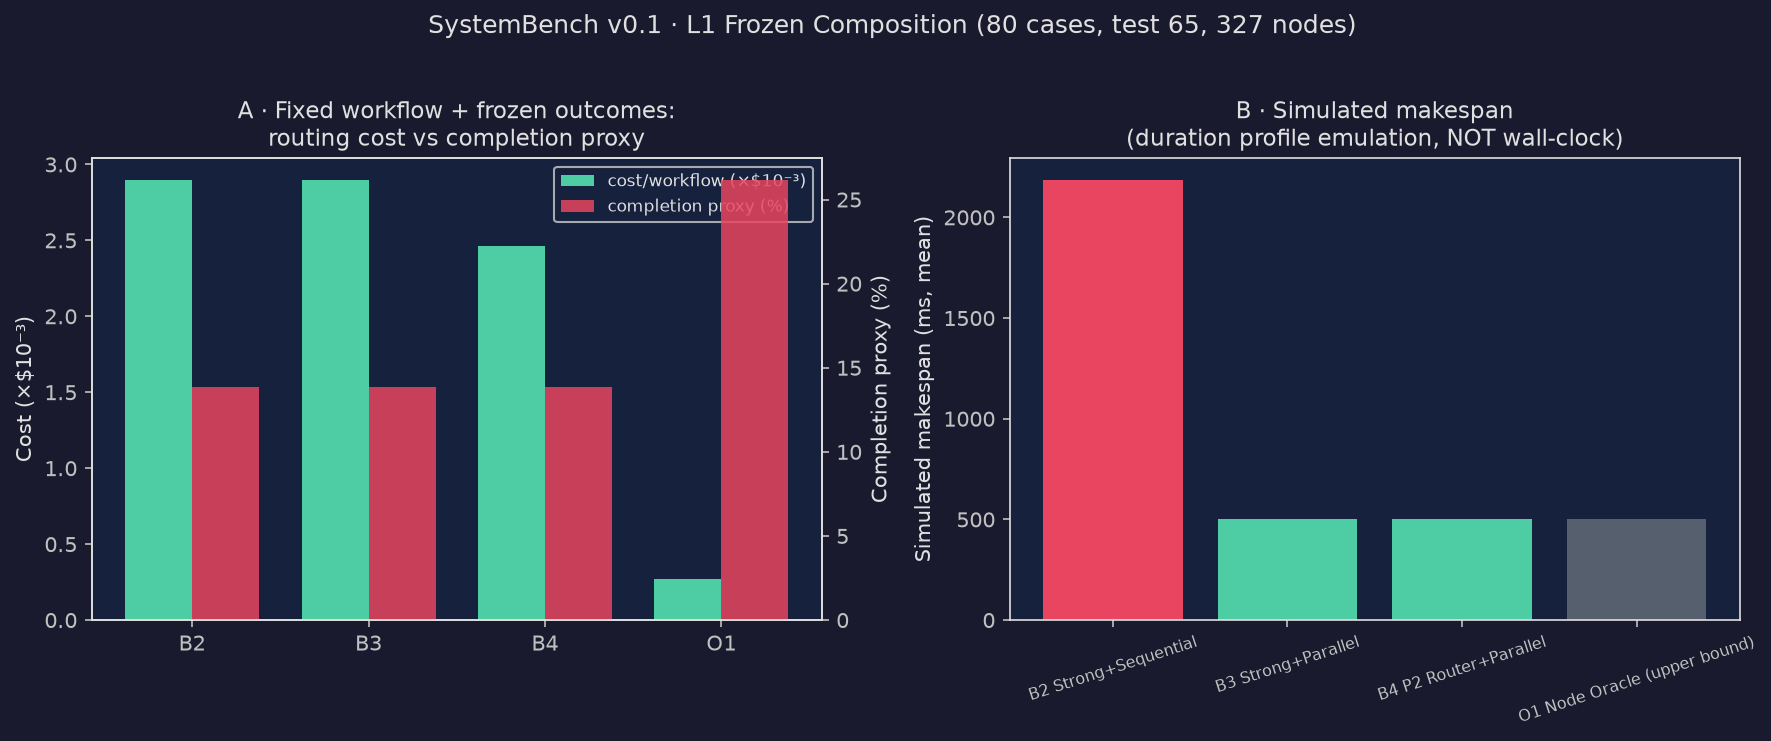
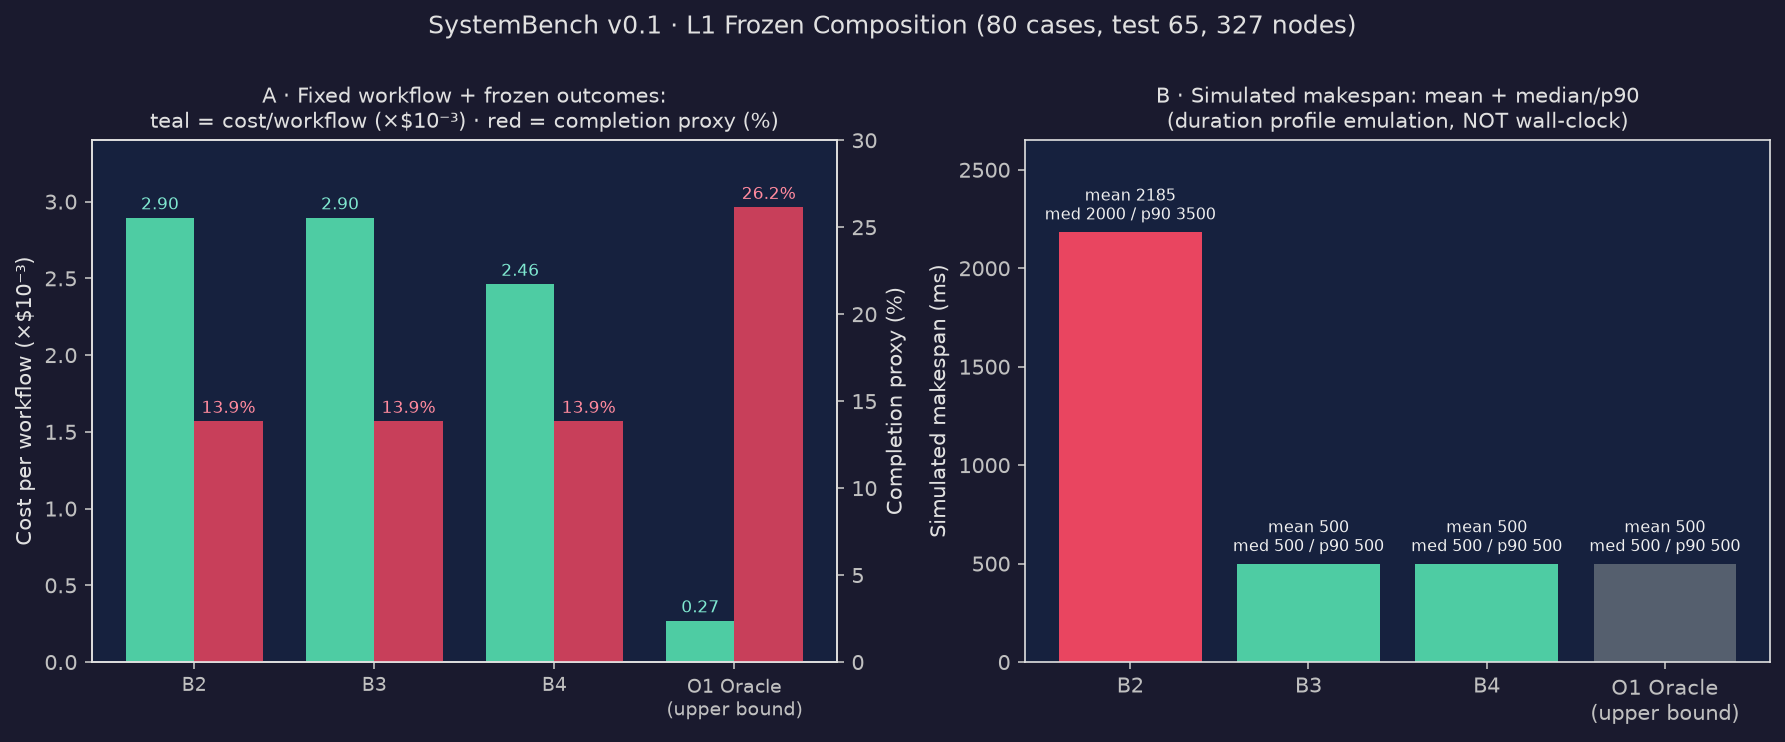
docs(bench): 34 号 P1/P2 收口——离线复核脚本固化 + walkthrough + 分位数分列 + 入口 identity 直书
- P1.5：audit/replay_check.py 落地（31 项校验可重跑：CSV↔冻结报告逐项/P2 真源=softgate0/median-p90 列/audit 自洽/manifest hash；纯离线零依赖）；README 快速复现节改为真实命令
- P1.3：audit/walkthrough.md——贯穿式 demo（root_goal→decomposition→标注→R1/R2 输入→route decision→frozen replay→仿真调度→completion proxy→failure attribution，9 步逐步标注真实生产逻辑/离线回放/仿真身份；semantic gold 未人审如实标注）
- §8.3：orchestration README 补 offline report 链接 + 与 SystemBench（schedule.py/validate.py 同源）与 Showcase（Tier B 语境）关系
- P2-2：systembench_v01_composition.csv 加 simulated_makespan_ms_median/p90 列（真源 v01_hardening：B2 2000/3500，B3/B4 500/500）；图 2 重渲染（mean 与 median/p90 分开标注、数值直标、O1 upper bound 标签修复）
- P2-8：showcase README 直书 snapshot identity（三个 benchmark id + status + erratum commits）
- P0-3：全文混写检查通过（showcase 无 calibration 0.809 与 frozen 0.786 混用；C7 已标口径）
- manifest v3（report/figure_data version 3 + audit_documents 节）；replay_check 31/31 PASS

diff --git a/benchmarks/showcase/audit/replay_check.py b/benchmarks/showcase/audit/replay_check.py
@@ -1,0 +1,132 @@
+#!/usr/bin/env python3
+"""replay_check.py — Showcase 离线复核（34 号 P1.5：数据与报告再生成、不联网、零 API 费用）。
+
+把 showcase 三图 figure_data CSV 与冻结报告逐项核对（P2 Frozen 对照源 =
+`lloom@softgate0`，34 号 §2.4 勘误），并校验 audit 文件自洽与 manifest hash。
+
+用法（仓库根目录，任何有 Python 3 的环境，无第三方依赖）：
+  python3 benchmarks/showcase/audit/replay_check.py
+退出码：0 = 全部 PASS；1 = 存在 FAIL。
+"""
+
+from __future__ import annotations
+
+import csv
+import hashlib
+import json
+import sys
+from pathlib import Path
+
+_HERE = Path(__file__).resolve().parent
+SHOWCASE = _HERE.parent
+REPO = SHOWCASE.parent.parent
+
+
+def sha(p: Path) -> str:
+    return hashlib.sha256(p.read_bytes()).hexdigest()
+
+
+def main() -> int:
+    checks: list[tuple[str, bool, str]] = []
+
+    def chk(name: str, cond: bool, detail: str = "") -> None:
+        checks.append((name, bool(cond), detail))
+
+    # ---- 图 1：RouterBench v0.2（P2 Frozen 真源 = lloom@softgate0）----
+    r = json.loads((REPO / "benchmarks/routerbench/reports/v02_test_report.json").read_text())
+    rows = {x["key"]: x for x in csv.DictReader(
+        (SHOWCASE / "figure_data/routerbench_v02_frontier.csv").open())}
+    p2 = r["runs"]["lloom@softgate0"]
+    chk("fig1.lloom(P2frozen).quality",
+        abs(float(rows["lloom"]["quality_mean"]) - p2["quality_mean"]) < 5e-5)
+    chk("fig1.lloom(P2frozen).cost",
+        abs(float(rows["lloom"]["cost_mean_per_query_usd"]) - p2["cost_mean"]) < 5e-7)
+    chk("fig1.lloom.not_p0",
+        float(rows["lloom"]["cost_mean_per_query_usd"]) != r["runs"]["lloom"]["cost_mean"],
+        "不得使用 P0/BandOnly（0.5867/$0.000849）")
+    for k in ("always_strong", "best_single", "cost_matched_random",
+              "strong_share_matched_random", "oracle"):
+        chk(f"fig1.{k}.quality",
+            abs(float(rows[k]["quality_mean"]) - r["runs"][k]["quality_mean"]) < 5e-5)
+        chk(f"fig1.{k}.cost",
+            abs(float(rows[k]["cost_mean_per_query_usd"]) - r["runs"][k]["cost_mean"]) < 5e-7)
+    ci = r["bootstrap_ci"]
+    chk("fig1.saving_ci",
+        abs(ci["saving_vs_strong"]["point"] - 0.1346) < 1e-9
+        and ci["saving_vs_strong"]["ci95_low"] == 0.122)
+
+    # ---- 图 2：SystemBench v0.1（mean + median/p90 分列，P2-2）----
+    v = json.loads((REPO / "benchmarks/systembench/reports/v01_report.json").read_text())
+    h = json.loads((REPO / "benchmarks/systembench/reports/v01_hardening.json").read_text())
+    rows2 = list(csv.DictReader((SHOWCASE / "figure_data/systembench_v01_composition.csv").open()))
+    # v01_hardening 的 makespan 分位数按策略键定位（结构容忍：收集全部 median/p90 后按序对照）
+    hard_str = json.dumps(h)
+
+    def hard_val(key: str, stat: str) -> float | None:
+        import re
+        m = re.search(r'"makespan_%s_ms":\s*([0-9.]+)' % stat, hard_str)
+        return float(m.group(1)) if m else None
+
+    for row in rows2:
+        k = row["key"]
+        s = v["summary"][k]
+        chk(f"fig2.{k}.cost",
+            abs(float(row["cost_per_workflow_usd"]) - s["cost_per_workflow_mean"]) < 1e-9)
+        chk(f"fig2.{k}.makespan_mean",
+            abs(float(row["simulated_makespan_ms_mean"]) - s["makespan_ms_mean"]) < 1e-9)
+    chk("fig2.B4_routing_gain",
+        abs(v["routing_gain_b4_vs_b3"]["d_cost_pct"] - (-14.95)) < 1e-9)
+    # median/p90 列存在且与 hardening 报告一致（B2 2000/3500；B3/B4 500/500）
+    med = {row["key"]: row.get("simulated_makespan_ms_median", "")
+           for row in rows2}
+    p90 = {row["key"]: row.get("simulated_makespan_ms_p90", "") for row in rows2}
+    chk("fig2.makespan_median_p90_present",
+        med.get("B2_workflow_strong_seq") == "2000" and p90.get("B2_workflow_strong_seq") == "3500"
+        and med.get("B3_workflow_strong_par") == "500" and p90.get("B3_workflow_strong_par") == "500")
+
+    # ---- 图 3：semantic protocol sensitivity（L1 jsonl 重算）----
+    l1 = [json.loads(l) for l in
+          (REPO / "benchmarks/systembench/matrices/semantic_outcomes_l1.jsonl")
+          .read_text().split("\n") if l.strip()]
+    rows3 = list(csv.DictReader((SHOWCASE / "figure_data/semantic_protocol_sensitivity.csv").open()))
+    l1_p1536 = [x for x in l1 if x["generation_profile"] == "P1536"]
+    chk("fig3.L1_P1536.trunc",
+        abs(float(rows3[0]["truncation_rate"])
+            - sum(1 for x in l1_p1536 if x["validity"] == "truncated") / 99) < 1e-3)
+    chk("fig3.L1_P1536.cells", rows3[0]["n_cells"] == "99")
+    chk("fig3.n_cells_all", sum(int(x["n_cells"]) for x in rows3[:2]) == 198)
+
+    # ---- audit 文件自洽 ----
+    cov = json.loads((SHOWCASE / "audit/l2_coverage.json").read_text())
+    chk("l2.coverage", cov["has_output"] == 119 and cov["scored"] == 49
+        and cov["planned_cells"] == 180)
+    ca = list(csv.DictReader((SHOWCASE / "audit/semantic_l1_comparability.csv").open()))
+    chk("l1_audit.rows", len(ca) == 198)
+    chk("l1_audit.included", sum(1 for x in ca if x["included_in_headline"] == "yes") == 197)
+
+    # ---- manifest hash 自洽 ----
+    m = json.loads((SHOWCASE / "manifests/showcase_manifest.json").read_text())
+    bad = [i["path"] for i in m["figures"] + m["figure_data"]
+           if sha(REPO / "benchmarks/showcase" / i["path"]) != i["sha256"]]
+    chk("manifest.figure_hashes", not bad, str(bad))
+
+    fails = [c for c in checks if not c[1]]
+    out = {
+        "checked": len(checks),
+        "pass": len(checks) - len(fails),
+        "fail": len(fails),
+        "p02_note": "fig1.lloom 对照源 = runs[lloom@softgate0]（P2 Frozen，34 号 §2.4 勘误）",
+        "items": [{"name": n, "status": "PASS" if ok else "FAIL", "detail": d}
+                  for n, ok, d in checks],
+    }
+    (SHOWCASE / "audit/offline_replay_check.json").write_text(
+        json.dumps(out, ensure_ascii=False, indent=2) + "\n", encoding="utf-8")
+    print(f"检查 {len(checks)} 项：PASS {out['pass']} / FAIL {out['fail']}")
+    for n, ok, d in fails:
+        print("  FAIL", n, d)
+    print("✓ audit/offline_replay_check.json（纯离线重生成）")
+    return 1 if fails else 0
+
+
+if __name__ == "__main__":
+    sys.exit(main())

diff --git a/benchmarks/showcase/audit/walkthrough.md b/benchmarks/showcase/audit/walkthrough.md
@@ -1,0 +1,81 @@
+# Walkthrough — 一条 workflow 的完整证据链（demo case）
+
+> 贯穿式演示（34 号 §六 展示 5）：从 root goal 到 workflow completion proxy，
+> 每一步标注「**真实生产逻辑** / **离线回放** / **仿真或人工标注**」三种身份。
+> demo case：`sb_v02_sem_030`（calibration split，6 节点，search/synthesis/verification 链）。
+> 机器可读版：`audit/demo_case_sb_v02_sem_030.json`。
+
+## 链路总览
+
+```text
+[1 真实生产逻辑]  root_goal（用户任务）
+[2 真实生产逻辑]  decomposition（生产 prompt → 语义节点 DAG）
+[3 真实生产逻辑]  annotation（role/atomicity/dependency/artifact contract；LLM 预标 + agent 复核，semantic gold 未人审）
+[4 真实生产逻辑]  routing_input / execution_input 构造（R1 headline / R2 diagnostic / 执行注入）
+[5 真实生产逻辑]  route decision（bench::route_single → router::plan()，与生产同链路）
+[6 离线回放]      node outcome（frozen replay：score/cost 查表，零新推理）
+[7 仿真]          schedule（duration-profile：completion_tokens × 2ms，非墙钟）
+[8 离线回放]      completion proxy（replay 成功判定：required 节点 succeeded + 依赖满足 + 无非法并行）
+[9 真实生产逻辑]  failure attribution（recovery 状态机 + P1-P11 归因；v0.1 failure 10 case 为注入样本）
+```
+
+## 逐步明细（sb_v02_sem_030）
+
+### [1-2] root_goal → 语义节点
+
+root_goal（节选）：「…大连三天两夜游玩…需一份能直接执行的方案…」。
+生产 decompose prompt（`ai_client.rs` 原文，qwen-plus temp=0）产出 6 节点 DAG；
+本 case 的节点均通过 canonical validator。
+
+### [3] 标注身份（重要边界）
+
+每个节点的 `semantic_role` / `artifact_contract.consumes` 由 LLM 预标注 + agent 复核 + 机械校验
+（consumes.from 与 edges 投影一致、依赖语义修复幂等归零）。**semantic gold 尚未 100% 人工签收**
+（正式 v0.2 gate 项，见 claims_and_limits §禁用 6）——本 demo 不把它描述为 approved gold。
+
+### [4] 输入构造（R1/R2/execution 三段分离）
+
+| 节点 | role | dependency | R1 band | execution_input |
+|---|---|---|---|---|
+| nC1 | extraction | independent | medium | base_text（root_goal+子任务） |
+| nC2 | search | artifact_dependent | hard | final_text（base + 冻结 artifacts） |
+| nC3 | reasoning | artifact_dependent | hard | final_text |
+| nC4_s1/s2/s3 | verification | artifact_dependent | hard | final_text |
+
+hash 逐节点记录在 demo JSON（routing_input_hash / execution_input_hash；
+artifacts 冻结自 stage0 参考执行 qwen3.6-plus）。**R1/R2 是两套 routing 口径，不混算**
+（headline=R1 description；Compression=0.1948 见 showcase_report §5.2）。
+
+### [5] route decision
+
+`bench::route_single → router::plan()`（P2 Frozen = `lloom@softgate0`，frozen manifest
+policy `P2_softgate0`）——与生产**同一决策链路**，零公式复制。band（R1）如上表；
+hard band 在 P2 下仅 strong 合格，medium/easy 全池 eligible。
+
+### [6] node outcome = frozen replay
+
+score/cost 来自 llmrb 冻结矩阵查表（exact binding，prompt_hash 校验），**不产生新推理**。
+semantic 层另有 L1 matrix（exploratory，分层审计见 `audit/semantic_l1_comparability.csv`），
+与本 v0.1 replay 是两条独立证据，不合并。
+
+### [7] schedule = 仿真
+
+makespan 用 duration-profile（completion_tokens × 2ms）模拟：
+B2 seq mean 2184.6 ms（median 2000 / p90 3500）→ B3/B4 par 500 ms。
+**这不是线上 wall-clock latency**（claims 禁用 3）。
+
+### [8] completion proxy = replay 判定
+
+全 required 节点 succeeded + 依赖满足 + 无非法并行。v0.1 test 65 workflows：
+B2/B3/B4 = 13.9%，O1（事后上界）= 26.2%。**不是真实 artifact 传播后的端到端成功率**。
+
+### [9] failure attribution = 真实生产状态机（注入样本）
+
+F1-F7 注入 + recovery 状态机 + P1-P11 归因（OrchestrationBench 基础设施）。
+v0.1 的 failure 10 case 仅 1 例恢复——样本小，只证明状态机 works，不证明 recovery 改善成功率
+（34 号 §4.2 同款边界）。
+
+## 一句话总结
+
+这条链上，**[1]-[5][9] 是真实生产代码路径，[6][8] 是冻结离线回放，[7] 是仿真**——
+showcase 的全部 headline 数字都产生于这个身份明确的组合，而非 live E2E。

diff --git a/benchmarks/showcase/README.md b/benchmarks/showcase/README.md
@@ -17,19 +17,26 @@
 ## 快速复现（全部离线，零 API）
 
 ```bash
-# 三图与底层 CSV 由冻结产物直接生成（不调用 provider）
-git rev-parse HEAD   # source commit 见 manifests/source_inventory.json
-# 图已提交在 figures/；figure_data/*.csv 为绘图数据真源
+# 1) 离线复核：figure_data CSV ↔ 冻结报告逐项核对 + audit 自洽 + manifest hash（31 项）
+python3 benchmarks/showcase/audit/replay_check.py
+# 2) 来源快照：source commit 与 13 个输入文件 SHA-256 见 manifests/source_inventory.json
+#    （source_commit 42216b7…；勘误 commit 18a5e35 / f4b5eea，冻结输入未变）
+# 3) 图已提交在 figures/；figure_data/*.csv 为绘图数据真源（渲染脚本零 provider 调用）
 ```
+
+**Snapshot identity**：RouterBench v0.2 = `lloom-routerbench-v0.2`；
+SystemBench v0.1 = `lloom-systembench-v0.1`；
+showcase = `lloom-benchmark-showcase-2026-10-09`（status: `showcase_snapshot_not_formal_v02_release`）。
 
 ## 目录
 
 - `showcase_report.md` — 主叙事（三层证据 + 边界）
 - `claims_and_limits.md` — 可引用 claims / 禁止越界 claims
+- `audit/walkthrough.md` — 贯穿式 demo（每步标注生产/回放/仿真身份）
 - `figures/` — 三张核心图（PNG）
-- `figure_data/` — 三图底层 CSV（图由 CSV 再生）
+- `figure_data/` — 三图底层 CSV（图由 CSV 再生；v0.1 makespan mean 与 median/p90 分列）
 - `manifests/source_inventory.json` — 源 commit + 13 个输入文件 SHA-256
-- `audit/` — 逐 cell 可比性审计、分层状态、L2 coverage、Coordination 派生值
+- `audit/` — 逐 cell 可比性审计、分层状态、L2 coverage、Coordination 派生值、`replay_check.py`（离线复核脚本）
 
 ## 一句话结论
 

diff --git a/benchmarks/orchestration/README.md b/benchmarks/orchestration/README.md
@@ -62,3 +62,16 @@ python3 scripts/db_init.py                      # 幂等
 | O4 End-to-End | final goal completion + cost/latency 归因 |
 
 失败分类 P1-P11（方案 §十三）+ 注入族 F1-F7（方案 §二十一）。
+
+## 状态与相关入口
+
+- **Offline report**（O-Day 14 产出）：[`reports/offline_v0.1.md`](reports/offline_v0.1.md) / `.json`——
+  **手工扰动 fixture 的演示/基础设施证据**，不是真实在线预测计划的总体结果；P1-P11 归因链与
+  recovery 状态机能力以此演示。
+- **与 SystemBench 的关系**：调度引擎 `schedule.py` 被 SystemBench v0.1 import（duration-profile
+  仿真口径同源）；validator `validate.py` 服务两边的 canonical workflow 校验。SystemBench v0.1
+  frozen composition 的调度效果（simulated makespan）即建在本层之上。
+- **与 Showcase 的关系**：本层属基础设施/诊断证据（Evidence Tier B 语境），不独立造 headline；
+  展示入口见 [`../showcase/README.md`](../showcase/README.md)（Tier A-D 分级与 walkthrough）。
+- online / live track（APB online、τ²、ToolSandbox、AppWorld、WebArena）全部后置，重开条件见
+  32 号决策 §11.2 触发器。
